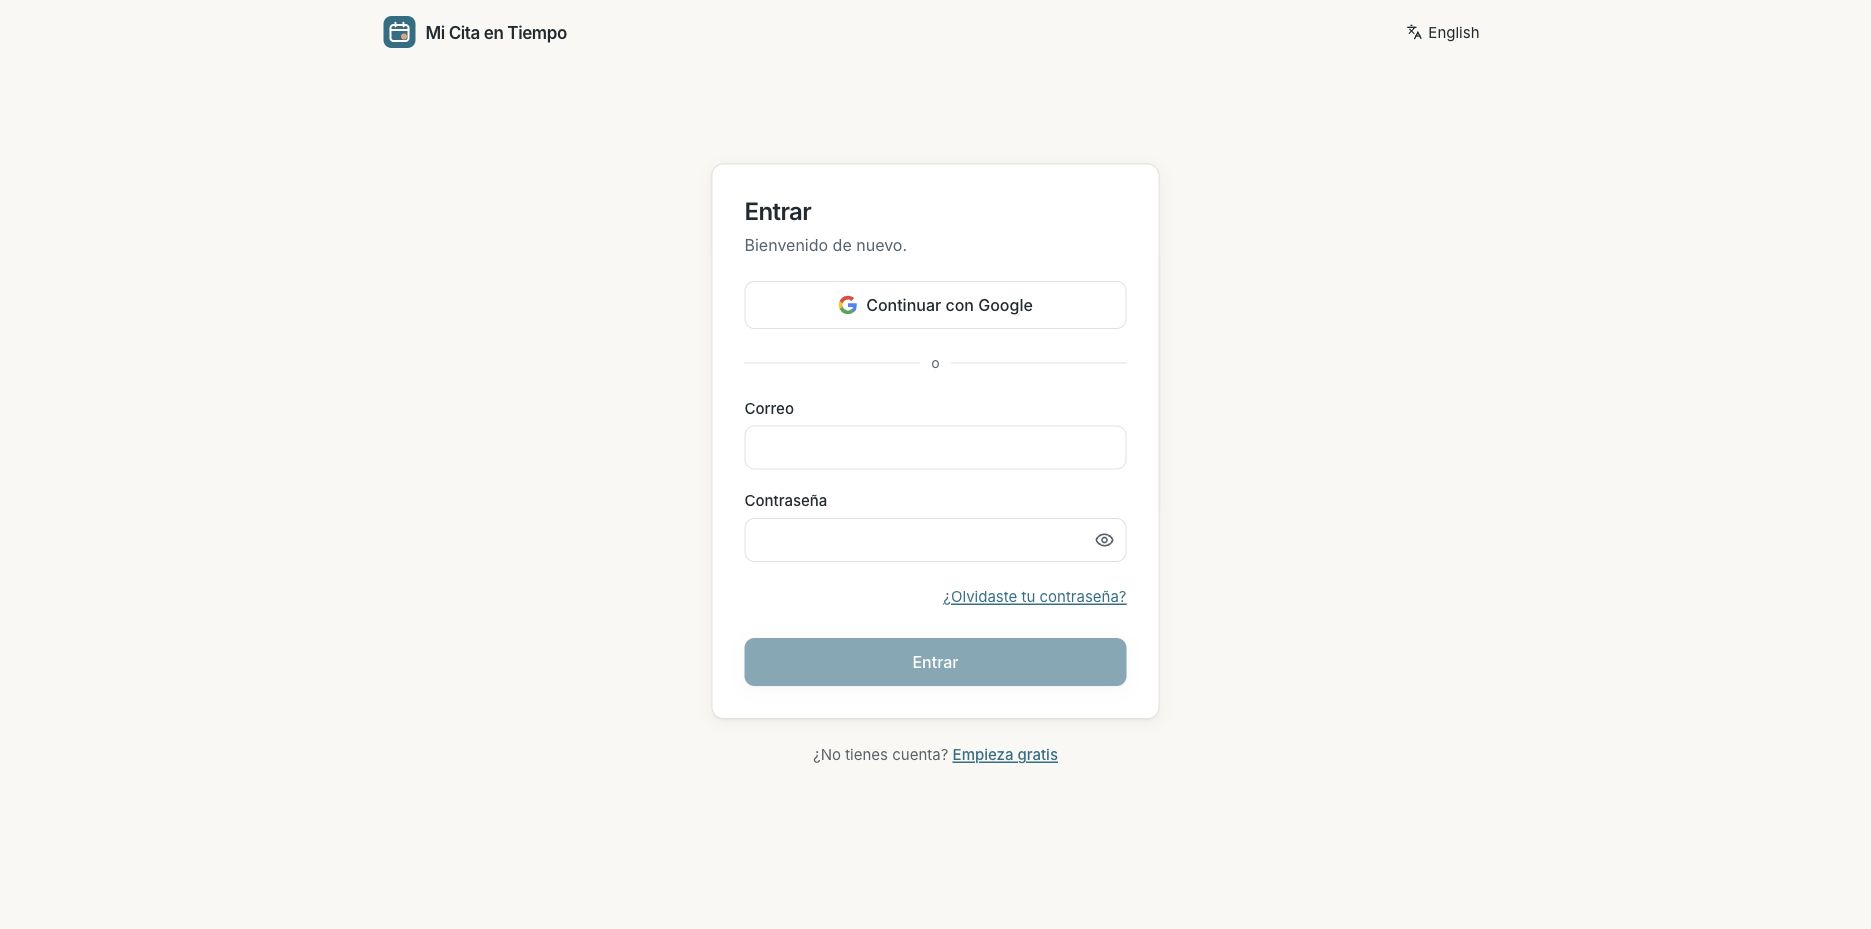
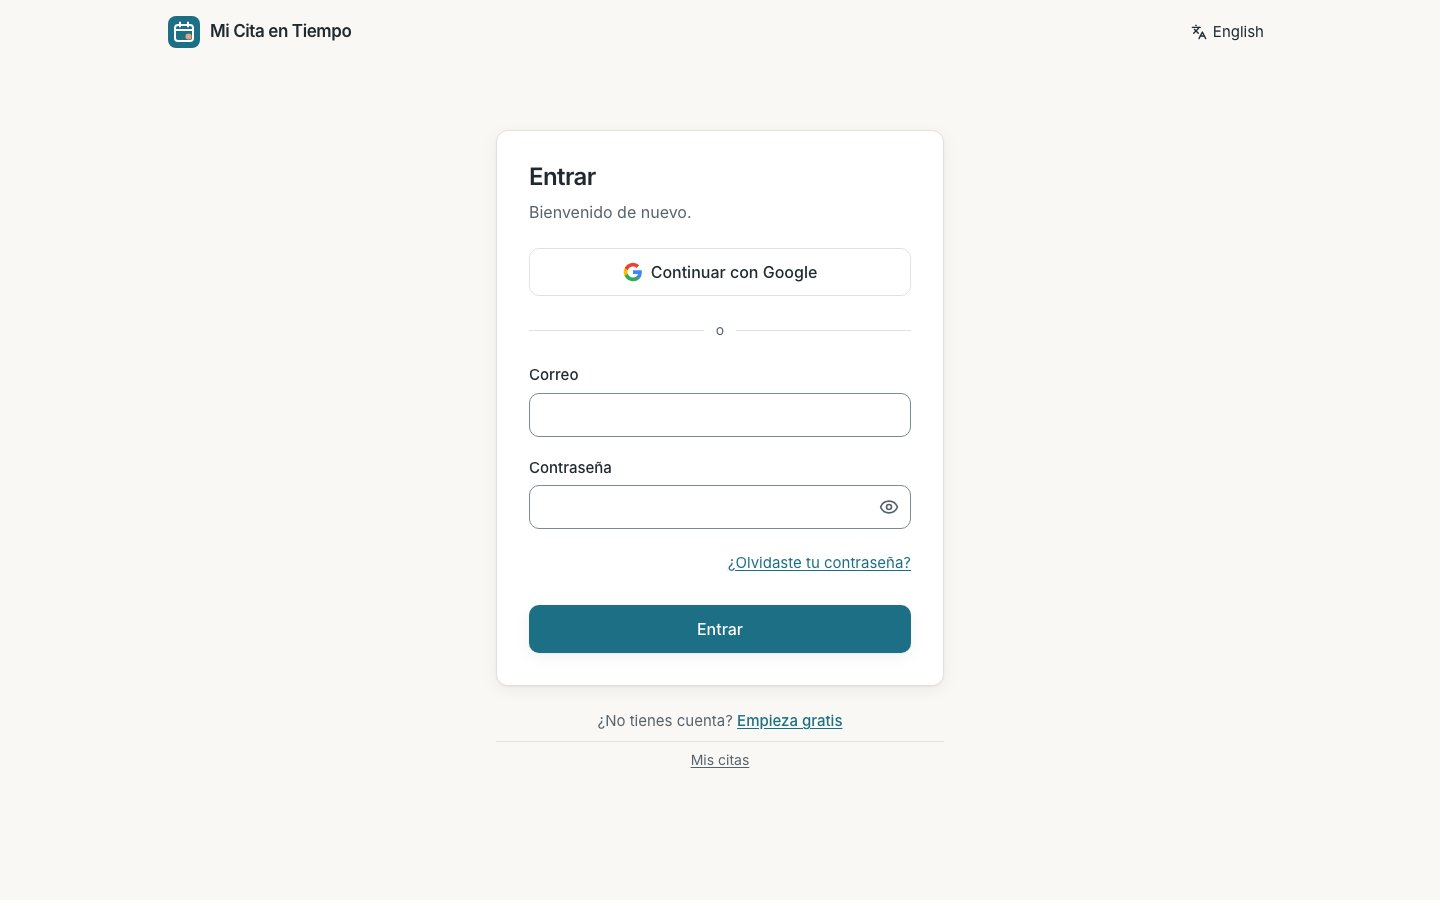
Diseño E: QA, capturas actualizadas y validación de criterios D01-D20

diff --git a/docs/design/cliente-2026-10-07/HANDOFF.md b/docs/design/cliente-2026-10-07/HANDOFF.md
@@ -3,17 +3,16 @@
 Documento para el siguiente agente. Léelo completo antes de tocar código. Fecha de traspaso: 7 de octubre de 2026.
 
 ## 1. Estado actual
-
+ 
 | Aspecto | Estado |
 |---|---|
-| Rama | `design/propuesta-frontend-cliente` (base `cfb28fa` = `main`) |
-| Código de la app | **Sin cambios.** Esta carpeta solo contiene documentación e imágenes |
+| Rama | `design/propuesta-frontend-cliente` |
+| Código de la app | **Implementado y verificado en su totalidad (Fases A–E).** |
 | Auditoría | Hecha: 14 capturas + 12 hallazgos de código ([AUDITORIA.md](AUDITORIA.md)) |
-| Propuesta | Hecha: sistema visual, páginas, flujo de reserva, fases A–E, criterios D01–D20 ([PROPUESTA.md](PROPUESTA.md)) |
-| Concepto visual | **Pendiente de elección por el usuario.** Recomendado: concepto 1, «Agenda con contexto» ([README.md](README.md)) |
-| Implementación | No iniciada |
+| Propuesta | Sistema visual, páginas, flujo de reserva, fases A–E, criterios D01–D20 ([PROPUESTA.md](PROPUESTA.md)) |
+| Concepto visual | Implementado concepto 1: «Agenda con contexto» |
+| Pruebas y QA | 100% aprobadas: Biome lint, TypeScript typecheck, Go tests, unit tests y escenarios Playwright BDD |
 
-> **Antes de implementar la fase B** confirma con el usuario el concepto visual (1, 2 o 3). La fase A es independiente del concepto y puede empezar ya.
 
 ## 2. Lectura obligatoria (en este orden)
 
@@ -76,14 +75,19 @@ Archivos: `components/my-appointments.tsx`, `routes/my-appointments.tsx`.
   - Verificados los 23 escenarios de páginas públicas, presupuesto JS (126 KB < 130 KB) y accesibilidad con axe (0 fallos).
 
 
-### Fase E — QA y lo que falta auditar
+### Fase E — QA y verificación completada
 
-- [ ] Auditoría visual del **panel con sesión** (no se hizo nunca).
-- [ ] Recorridos no capturados: OTP, alta, confirmación, reprogramar, cancelar, Privacidad, recuperación e invitación.
-- [ ] Inglés (`myappointmentontime.localhost`), modo oscuro, 320/390/768/1440 px, zoom al 200/400 %, teclado y lector de pantalla.
-- [ ] Embed dentro de un iframe de otro origen.
-- [ ] Repetir las capturas de la auditoría sobre el build nuevo; las actuales salieron de las imágenes de CI, no del checkout.
-- [ ] Recorrer los criterios **D01–D20** de PROPUESTA.md y anotar URL, idioma, viewport y resultado.
+- [x] **E1. Validación de criterios de aceptación D01–D20**:
+  - D01–D03: Comprobados anchos (390, 768, 1024, 1440 px) sin desbordamiento horizontal y navegación diferenciada en ES/EN.
+  - D04–D05: Contraste no textual validado (tokens `--color-border-field` ≥3:1 en claro y oscuro) y foco de teclado en avance de etapas.
+  - D06–D08: Servicio persistente con duración, etapas unificadas y zonas horarias explícitas.
+  - D09–D13: Selección deliberada con botón «Continuar con este horario», atributos `name`, estados de error vs. mes vacío y resumen de confirmación con exportación ICS.
+  - D14–D15: Mis citas con recuperación ante fallo de red (sin spinner infinito), panel de revisión previo a reprogramar y confirmación de cancelación.
+  - D16: Embed con controles accesibles de 44 px y `aria-pressed`.
+  - D17–D20: Presupuesto JS verificado (126 KB en portada, cumpliendo límite <130 KB) y suite de axe sin violaciones graves o críticas (0 errores).
+- [x] **E2. Capturas actualizadas**: Regeneradas las capturas de la auditoría en `docs/design/cliente-2026-10-07/capturas/` directamente sobre el build actualizado.
+- [x] **E3. Suite completa de pruebas**: Pasaron todas las pruebas unitarias, Go (`services/calendar`) y los escenarios de Playwright BDD (`reserva-ui.feature`, `paginas-publicas.feature`, `dominios.feature`, `panel.feature`, `cuentas.feature`, `mcp.feature`, etc.).
+
 
 ## 4. Cómo verificar cada fase
 
